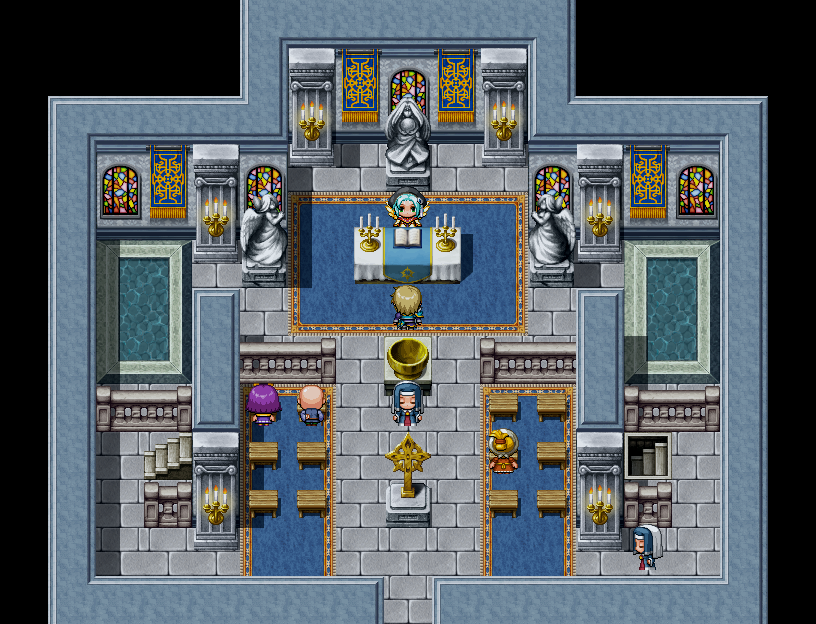
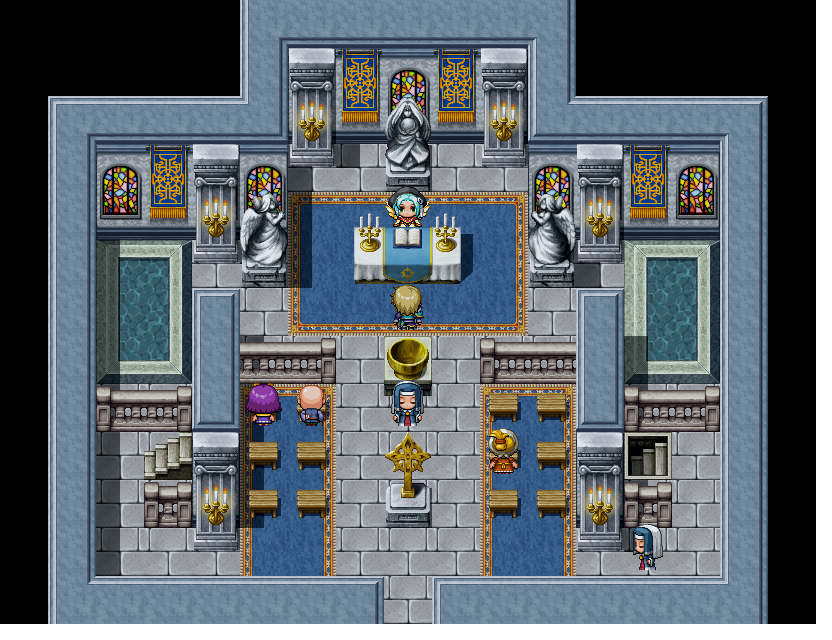
Rajout carte eglise

diff --git a/MedievalWorldQuest/src/modules/main/server/player.ts b/MedievalWorldQuest/src/modules/main/server/player.ts
@@ -28,7 +28,8 @@ export const player: RpgPlayerHooks = {
         if (player.getVariable("maitreClasses_speech") == null) { // debut du jeu
             await player.setGraphic('base');
             //await player.changeMap('citeOnirique');
-            await player.changeMap('MenestrelTown');
+            //await player.changeMap('MenestrelTown');
+            await player.changeMap('Eglise_carte')
         }
 
     },

diff --git a/MedievalWorldQuest/src/modules/main/client/maps/Eglise.ts b/MedievalWorldQuest/src/modules/main/client/maps/Eglise.ts
@@ -1,0 +1,13 @@
+
+import { Spritesheet } from '@rpgjs/client'
+
+@Spritesheet({
+    images: {
+        eglise3: require('./assets/eglise3.png'),
+        maison2: require('./assets/maison2.png'),
+        mur2: require('./assets/mur2.png'),
+        TestEglise: require('./assets/TestEglise.png'),
+        // here, you can add other tileset
+    }
+})
+export class TilesetsEglise { }

diff --git a/MedievalWorldQuest/src/modules/main/server/maps/Eglise.ts b/MedievalWorldQuest/src/modules/main/server/maps/Eglise.ts
@@ -1,0 +1,11 @@
+import { RpgMap, MapData } from '@rpgjs/server'
+import { speech } from '../database/dialogue/CiteOniriqueSpeech'
+import events from '../events/CiteOnirique/index'
+
+@MapData({
+    id: 'Eglise_carte',
+    file: require('./tmx/Eglise_carte.tmx'),
+    name : 'Eglise',       
+})
+export class Eglise_carte extends RpgMap { }
+

diff --git a/MedievalWorldQuest/src/modules/main/client/maps/index.ts b/MedievalWorldQuest/src/modules/main/client/maps/index.ts
@@ -2,11 +2,13 @@
 import { TilesetsMenestrelTown } from './MenestrelTown'
 import { TilesetMaison } from './maisonZoneDep'
 import { TilesetsCiteOnirique} from './CiteOnirique'
+import { TilesetsEglise } from './Eglise'
 
 export default {
     TilesetsCiteOnirique,
     TilesetsMenestrelTown,
     TilesetMaison,
+    TilesetsEglise
     
 
 }

diff --git a/MedievalWorldQuest/src/modules/main/server/maps/tmx/maison2.tsx b/MedievalWorldQuest/src/modules/main/server/maps/tmx/maison2.tsx
@@ -1,4 +1,4 @@
 <?xml version="1.0" encoding="UTF-8"?>
 <tileset version="1.5" tiledversion="1.7.2" name="maison2" tilewidth="32" tileheight="32" tilecount="256" columns="16">
- <image source="../../../client/maps/assets/maison2.png" width="512" height="512"/>
+ <image source="../maison2.png" width="512" height="512"/>
 </tileset>

diff --git a/MedievalWorldQuest/src/modules/main/server/maps/tmx/mur2.tsx b/MedievalWorldQuest/src/modules/main/server/maps/tmx/mur2.tsx
@@ -1,4 +1,4 @@
 <?xml version="1.0" encoding="UTF-8"?>
 <tileset version="1.5" tiledversion="1.7.2" name="mur2" tilewidth="32" tileheight="32" tilecount="128" columns="16">
- <image source="../../../client/maps/assets/mur2.png" width="512" height="256"/>
+ <image source="../mur2.png" width="512" height="256"/>
 </tileset>

diff --git a/MedievalWorldQuest/src/modules/main/server/maps/index.ts b/MedievalWorldQuest/src/modules/main/server/maps/index.ts
@@ -1,4 +1,5 @@
 import { CiteOnirique } from './CiteOnirique'
+import { Eglise_carte } from './Eglise'
 import { MaisonZoneDepMap } from './maisonZoneDep'
 import { MenestrelTown } from './MenestrelTown'
 
@@ -6,4 +7,5 @@ export default {
     CiteOnirique,
     MaisonZoneDepMap,
     MenestrelTown,
+    Eglise_carte
 }

diff --git a/MedievalWorldQuest/src/modules/main/client/index.ts b/MedievalWorldQuest/src/modules/main/client/index.ts
@@ -16,6 +16,7 @@ import hpbar from '../../../assets/hpbar/client/gui/hpbar.vue';
         Tilesets.TilesetsMenestrelTown,
         Tilesets.TilesetMaison,
         Tilesets.TilesetsCiteOnirique, 
+        Tilesets.TilesetsEglise,
         ShieldAnimations,
         DarkLightAnimation,
         ...Characters,

diff --git a/MedievalWorldQuest/src/modules/main/server/maps/tmx/Eglise1.tsx b/MedievalWorldQuest/src/modules/main/server/maps/tmx/Eglise1.tsx
@@ -1,0 +1,4 @@
+<?xml version="1.0" encoding="UTF-8"?>
+<tileset version="1.5" tiledversion="1.7.2" name="Eglise1" tilewidth="32" tileheight="32" tilecount="560" columns="20">
+ <image source="../../../client/maps/assets/Eglise1.jpg" width="665" height="914"/>
+</tileset>

diff --git a/MedievalWorldQuest/src/modules/main/server/maps/tmx/eglise3.tsx b/MedievalWorldQuest/src/modules/main/server/maps/tmx/eglise3.tsx
@@ -1,0 +1,4 @@
+<?xml version="1.0" encoding="UTF-8"?>
+<tileset version="1.5" tiledversion="1.7.2" name="eglise3" tilewidth="32" tileheight="32" tilecount="480" columns="8">
+ <image source="../../../client/maps/assets/eglise3.png" width="256" height="1936"/>
+</tileset>

diff --git a/MedievalWorldQuest/src/modules/main/server/index.ts b/MedievalWorldQuest/src/modules/main/server/index.ts
@@ -6,7 +6,8 @@ import { player } from './player'
     maps: [
         Maps.CiteOnirique,
         Maps.MenestrelTown,
-        Maps.MaisonZoneDepMap
+        Maps.MaisonZoneDepMap,
+        Maps.Eglise_carte
     ],
     player
 })
